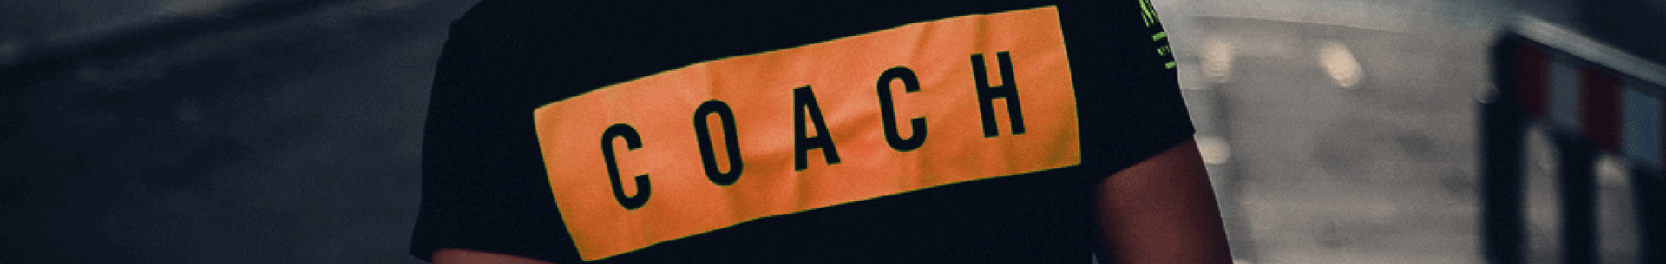
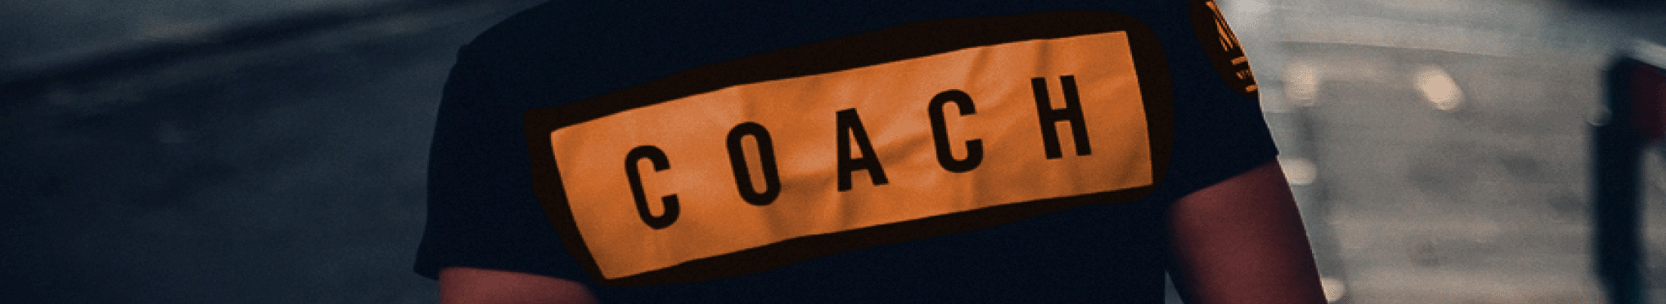
Ajuste de foto de portada página nosotros. Optimización con etiqueta picture

diff --git a/contacto.html b/contacto.html
@@ -73,7 +73,13 @@
     <!-- INICIO CONTENIDO -->
     <main>
         <section class="portada">
-            <img src="./images/portadas/portada-contacto.png" alt="Imagen de portada contacto">
+            <!-- PORTADA -->
+            <picture>
+                <source srcset="./images/portadas/portada-contacto-xl.png" media="(min-width: 1280px)" />
+                <source srcset="./images/portadas/portada-contacto-lg.png" media="(min-width: 990px)" />
+                <source srcset="./images/portadas/portada-contacto-md.png" media="(min-width: 600px)" />
+                <img src="./images/portadas/portada-contacto-sm.png" alt="Imagen de portada sección nosotros RunClub" />
+            </picture>
             <div class="encabezadoDestacado bloqueContenido--lg">
                 <h1>ENTRENÁ CON <span class="destacadoClub">NOSOTROS</span></h1>
                 <p class="textosDestacados bloqueContenido--sm">Nunca es fácil probar algo nuevo. Pero es excelente. Porque no importa cuántas veces te caigas, siempre ganas algo. Probar cosas nuevas siempre es una victoria.
